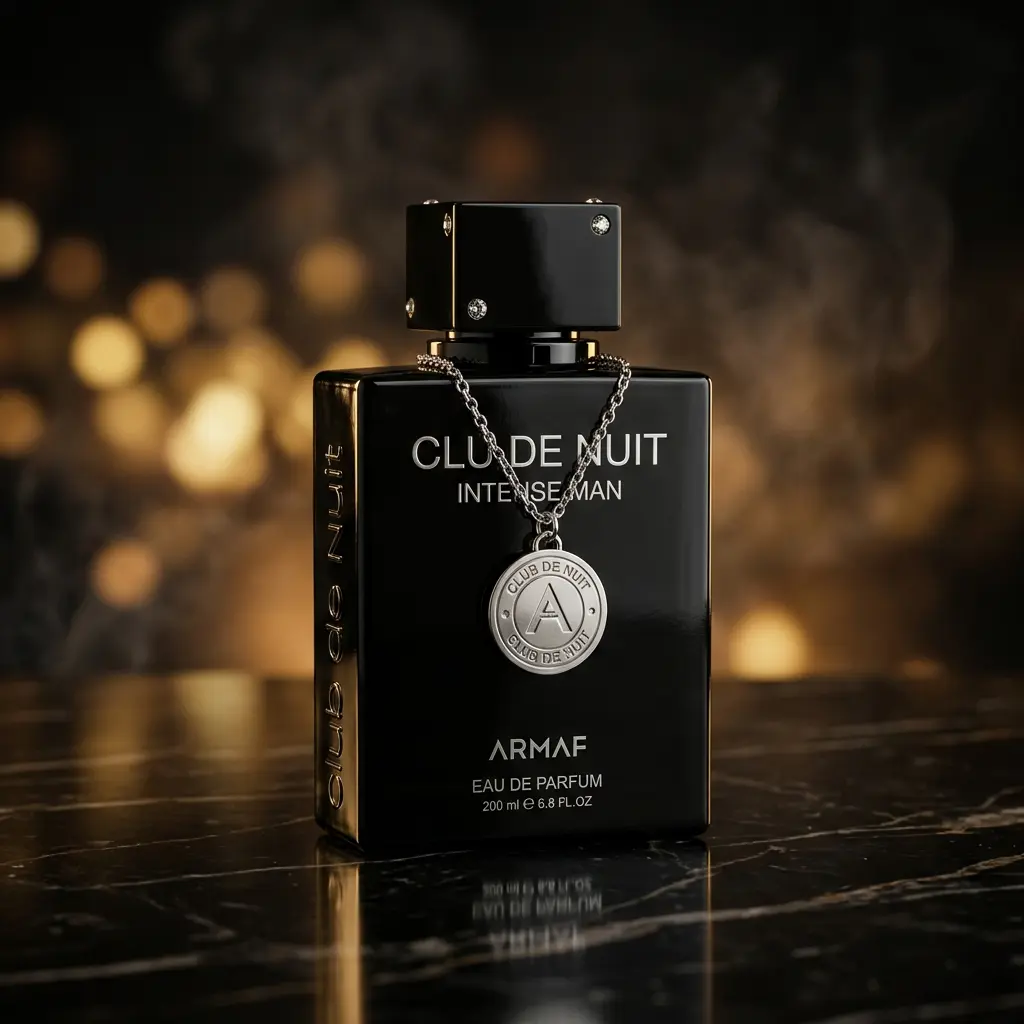
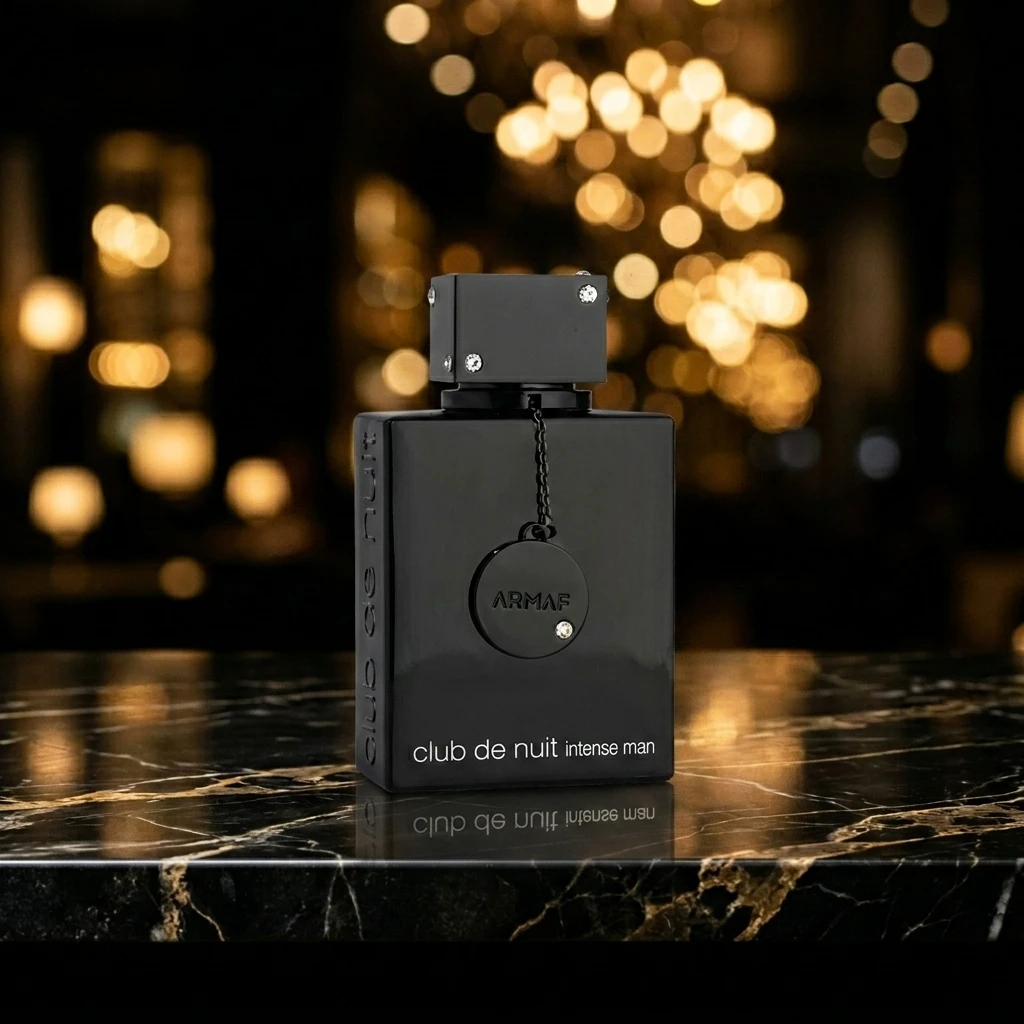
agregar producto

diff --git a/src/data/arabProducts.ts b/src/data/arabProducts.ts
@@ -2544,5 +2544,20 @@ export const arabProducts: Product[] = [
       base: ["Vainilla de Madagascar", "Sándalo", "Haba tonka", "Maderas ambaradas"]
     },
   },
+  {
+    id: 272,
+    name: "Club de Nuit Intense Man",
+    brand: "Armaf",
+    price: 65000,
+    image: "/images/mockups/club_de_nuit_intense_man.webp",
+    category: "hombre",
+    description: "Es uno de los perfumes más vendidos y famosos del mundo dentro de la perfumería alternativa, ultra conocido por ser la mejor interpretación inspirada en Creed Aventus. Destaca por tener una proyección tremenda y una duración bestial en piel, con un perfil marcadamente masculino, potente, elegante y súper versátil.",
+    size: "105ml",
+    notes: {
+      top: ["Limón", "Piña", "Bergamota", "Grosellas negras", "Manzana"],
+      heart: ["Abedul (toque ahumado)", "Jazmín", "Rosa"],
+      base: ["Almizcle", "Ámbar gris", "Pachulí", "Vainilla"]
+    },
+  },
 ];
 

diff --git a/scratch/convert_image.py b/scratch/convert_image.py
@@ -1,0 +1,15 @@
+import os
+from PIL import Image
+
+src_path = r"C:\Users\Guille\Desktop\Parfum_SP\public\images\mockups"
+generated_image = r"C:\Users\Guille\.gemini\antigravity\brain\0388c52f-c54a-44ec-b24d-bfbce96879fa\club_de_nuit_intense_man_recreated_1781833915350.png"
+dest_image = os.path.join(src_path, "club_de_nuit_intense_man.webp")
+
+try:
+    img = Image.open(generated_image)
+    # Convert to RGB before saving as WEBP
+    img = img.convert("RGB")
+    img.save(dest_image, "WEBP", quality=90)
+    print(f"Successfully converted and saved to {dest_image}")
+except Exception as e:
+    print(f"Error: {e}")
